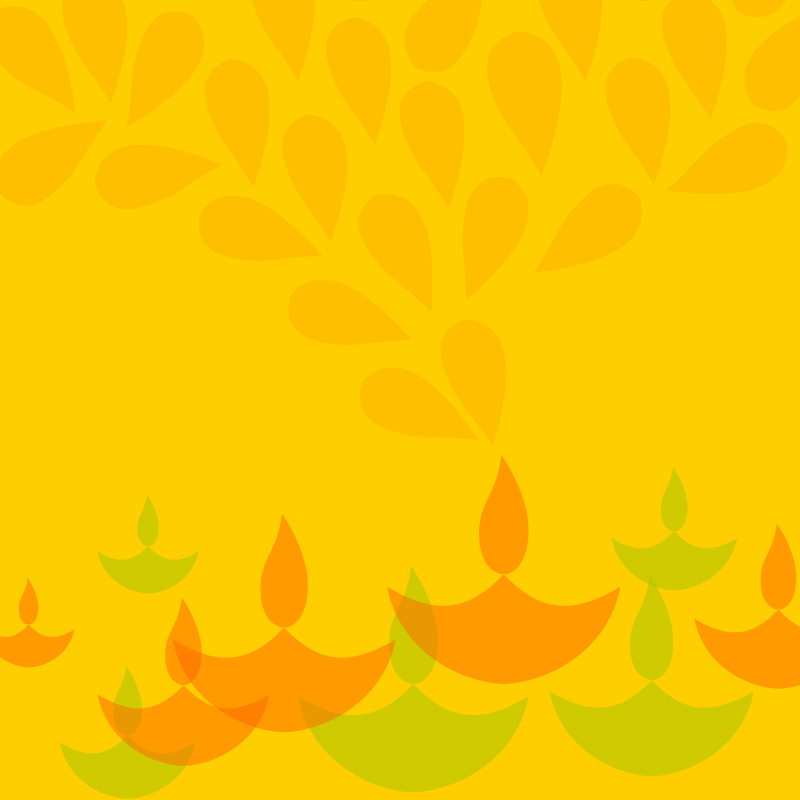
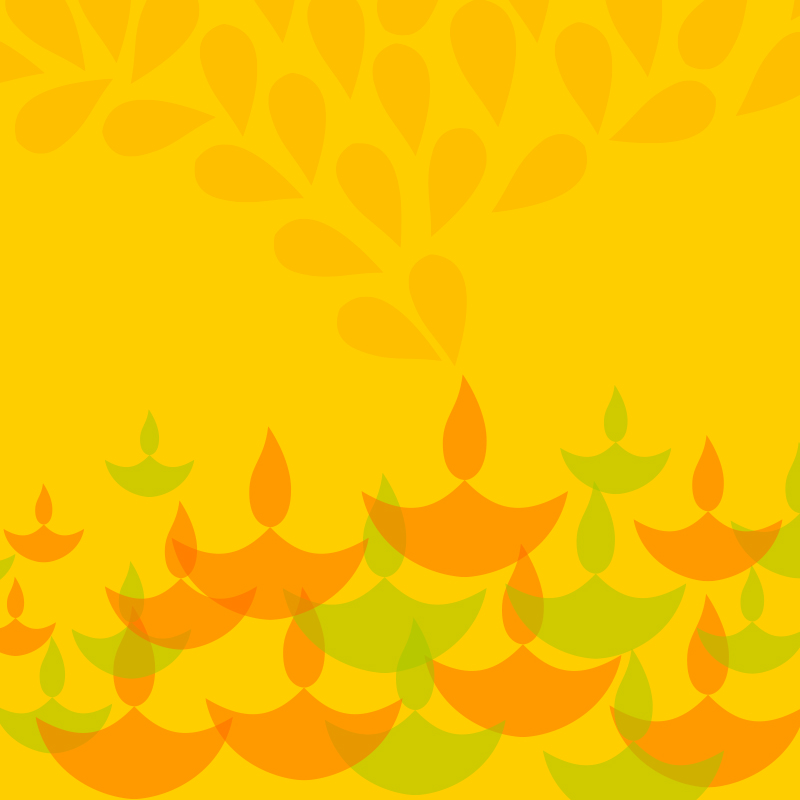
Football Theme removed

Changed region(s): [[0.0, 0.4688, 1.0, 1.0], [0.5, 0.9688, 0.5625, 1.0]]

diff --git a/windows-client/utils/ChatBackgroundHelper.cs b/windows-client/utils/ChatBackgroundHelper.cs
@@ -369,22 +369,6 @@ namespace windows_client.utils
 
             BackgroundList.Add(new ChatBackground()
             {
-                ID = "35",
-                Background = "#ffe0cb00",
-                HeaderAndNotificationColor = "#ff087d40",
-                SentBubbleBackground = "#ffdcffa0",
-                ReceivedBubbleBackground = "#ffffffff",
-                BubbleForeground = "#ff000000",
-                Foreground = "#ffffffff",
-                IsTile = false,
-                IsLightTheme = true,
-                Position = 1,
-                ThumbnailPath = "/View/images/chatBackgrounds/Thumbnail/cbFifa.jpg",
-                ImagePath = "/View/images/chatBackgrounds/Background/cbFifa.jpg"
-            });
-
-            BackgroundList.Add(new ChatBackground()
-            {
                 ID = "36",
                 Background = "#ffe2602f",
                 HeaderAndNotificationColor = "#ffc44523",
